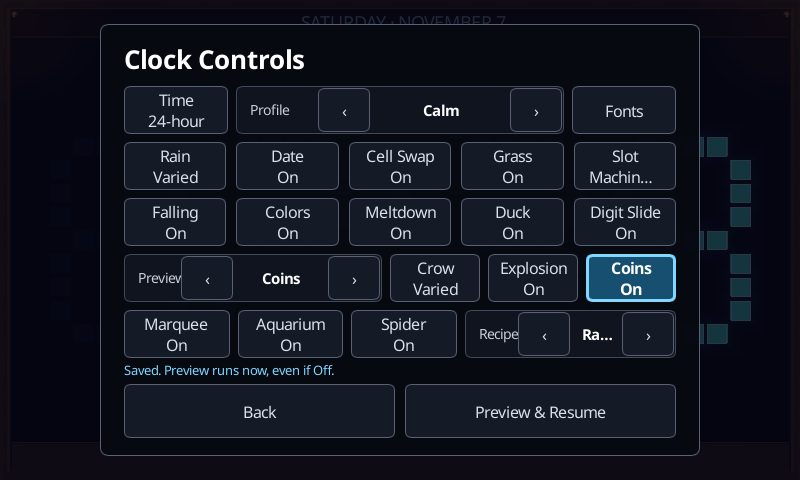
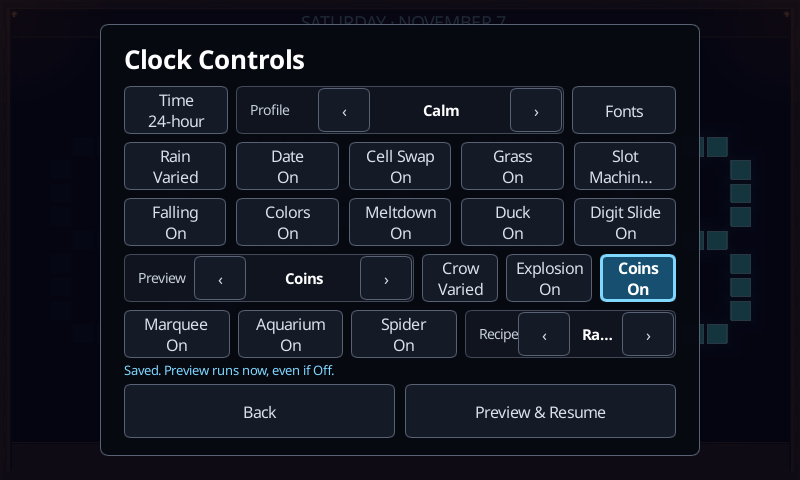
Clock: give the pause page's selectors their room and the arrows their walk
Review of #595 found two defects in the Coins switch's row. On a portrait
panel the third switch left the preview selector 106px, less than its two
arrows need, so the event to preview had no name; and Left and Right on
Coins flipped the switch instead of moving along the row as the navigation
table says, which Explosion had done before it.

The pause page's Clock grid now stacks under 500px: the preview and recipe
selectors take rows of their own above their switches, which share the next
row in thirds, and the panel grows by two rows. In landscape the three
switches are 76, 86 and 76px wide, so "Preview" and the longest event name
keep their room. Arrows walk from every switch, Explosion and Coins included.

The layout audit evaluates conditional geometry and the grid's own
properties, measures the two real grid widths as well, and holds every
selector on the pause page to 32px of room for its value, which is what the
portrait capture lacked. Its tests cover both arrangements and a squeezed
recipe. The keyboard test walks the row with the arrows, and the docs carry
the portrait capture.

diff --git a/tools/audit-clock-control-layout.py b/tools/audit-clock-control-layout.py
@@ -1,12 +1,22 @@
 #!/usr/bin/env python3
-"""Report Clock control panels whose buttons overlap, which hides whichever one the UI paints first."""
+"""Report Clock control panels whose buttons overlap, which hides whichever one the UI paints first, and selectors squeezed below the room their value needs."""
 import argparse
 import re
 from pathlib import Path
 
 PANELS={'ingame-clock':'ingame-clock-visible','launcher-clock':'launcher-scenario == "clock"'}
-WIDTHS=(480,800,1280)
-CHILD=re.compile(r'^\s*(?:if [^:]+: )?(MenuButton|ChoiceRow)\s*\{\s*$')
+# 400 and 552 are the grids' real widths on the 480x800 and landscape panels.
+WIDTHS=(400,480,552,800,1280)
+# A ChoiceRow gives 52px and a margin to each arrow; its value has the rest
+# of what the label fraction leaves, and shows nothing legible under this.
+VALUE_ROOM=32
+# The launcher's selectors lose their values on a portrait panel too; that
+# predates the check and is a separate change, so only the pause page is held
+# to it.
+VALUE_PANELS=('ingame-clock',)
+CHILD=re.compile(r'^\s*(?:if [^:]+: )?(?:[\w-]+\s*:=\s*)?(MenuButton|ChoiceRow)\s*\{\s*$')
+PROPERTY=re.compile(r'^\s*(?:private |in |out |in-out )?property\s*<[^>]+>\s*([\w-]+)\s*:\s*([^;]+);')
+TERNARY=re.compile(r'^(.*?)\?(.*?):(.*)$')
 
 
 def block(lines,start):
@@ -29,26 +39,44 @@ def panels(lines):
                 yield name,start,end
 
 
-def measure(expression,width):
-    """Evaluate the px arithmetic these panels use, or None when it is conditional."""
+def declarations(lines,start,end):
+    """Map the panel's own `id.property` names to their expressions, for geometry that refers to them."""
+    named=re.search(r'([\w-]+)\s*:=\s*\w+\s*\{',lines[start])
+    if not named:
+        return {}
+    found={}
+    for line in lines[start+1:end]:
+        match=PROPERTY.match(line)
+        if match:
+            found['%s.%s'%(named.group(1),match.group(1))]=match.group(2).strip()
+    return found
+
+
+def measure(expression,width,names=None):
+    """Evaluate the px arithmetic these panels use, one `a ? b : c` deep and through the panel's own properties, or None."""
+    for name,value in (names or {}).items():
+        expression=expression.replace(name,'(%s)'%value)
+    expression=TERNARY.sub(r'((\2) if (\1) else (\3))',expression)
     try:
-        return float(eval(expression.replace('parent.width','W').replace('px',''),{'__builtins__':{}},{'W':width}))
+        return float(eval(expression.replace('parent.width','W').replace('self.width','W').replace('px',''),{'__builtins__':{}},{'W':width}))
     except Exception:
         return None
 
 
 def boxes(lines,start,end,width):
-    """Return every measurable control in the panel as (label, x, y, width, height, line)."""
-    result=[];index=start
+    """Return every measurable control in the panel as (label, x, y, width, height, line, kind, label fraction)."""
+    result=[];index=start;names=declarations(lines,start,end)
     while index<end:
-        if not CHILD.match(lines[index]):
+        kind=CHILD.match(lines[index])
+        if not kind:
             index+=1;continue
         open_at,close_at=block(lines,index);body='\n'.join(lines[open_at:close_at])
         read=lambda name:(lambda m:m.group(1).strip() if m else '')(re.search(r'\n\s*%s:\s*([^;]+);'%name,body))
-        geometry=[measure(read(name),width) for name in ('x','y','width','height')]
+        geometry=[measure(read(name),width,names) for name in ('x','y','width','height')]
         label=(re.search(r'\n\s*text:\s*"([^"\\]*)',body) or re.search(r'\n\s*label:\s*"?([^";]*)',body))
+        fraction=measure(read('label-fraction') or '0.40',width,names)
         if None not in geometry:
-            result.append(((label.group(1).split('\\n')[0].strip() if label else '?'),*geometry,open_at+1))
+            result.append(((label.group(1).split('\\n')[0].strip() if label else '?'),*geometry,open_at+1,kind.group(1),fraction))
         index=close_at
     return result
 
@@ -64,11 +92,25 @@ def overlaps(items):
     return found
 
 
+def squeezed(items,room=VALUE_ROOM):
+    """Return every selector whose value is left under `room` px, with that figure."""
+    return [(item,item[3]*(1-item[7])-120) for item in items if item[6]=='ChoiceRow' and item[7] is not None and item[3]*(1-item[7])-120<room]
+
+
 def audit(path,widths=WIDTHS):
     """Return {panel: [(width, first, second)]} for every overlap found."""
     lines=Path(path).read_text().split('\n');result={}
     for name,start,end in panels(lines):
         result[name]=[(width,a,b) for width in widths for a,b in overlaps(boxes(lines,start,end,width))]
+    return result
+
+
+def audit_values(path,widths=WIDTHS,panel_names=VALUE_PANELS):
+    """Return {panel: [(width, selector, room)]} for every selector squeezed below its value's room."""
+    lines=Path(path).read_text().split('\n');result={}
+    for name,start,end in panels(lines):
+        if name in panel_names:
+            result[name]=[(width,item,room) for width in widths for item,room in squeezed(boxes(lines,start,end,width))]
     return result
 
 
@@ -82,7 +124,13 @@ def main():
         print('%s: %d overlap(s)'%(name,len(found)))
         for width,a,b in found:
             print('  at parent.width=%d: %s (line %d) over %s (line %d)'%(width,a[0],a[5],b[0],b[5]))
+    values=audit_values(args.slint)
+    for name,found in sorted(values.items()):
+        print('%s: %d squeezed selector(s)'%(name,len(found)))
+        for width,item,room in found:
+            print('  at parent.width=%d: %s (line %d) leaves its value %dpx'%(width,item[0],item[5],room))
     assert not any(report.values()), 'clock controls overlap'
+    assert not any(values.values()), 'a clock selector has no room for its value'
     print('every clock control has its own place at widths %s'%(', '.join(str(w) for w in WIDTHS)))
 
 

diff --git a/tools/tests/test_clock_control_layout.py b/tools/tests/test_clock_control_layout.py
@@ -25,9 +25,38 @@ class ClockControlLayoutTests(unittest.TestCase):
     def test_both_panels_measure_their_whole_grid(self):
         lines = SLINT.read_text().split('\n')
         for name, start, end in L.panels(lines):
-            measured = L.boxes(lines, start, end, 800)
-            self.assertGreaterEqual(len(measured), 15, '%s measured only %d controls' % (name, len(measured)))
-            self.assertIn('Slot Machine', [item[0] for item in measured])
+            for width in L.WIDTHS:
+                measured = L.boxes(lines, start, end, width)
+                self.assertGreaterEqual(len(measured), 15, '%s measured only %d controls at %d' % (name, len(measured), width))
+                self.assertIn('Slot Machine', [item[0] for item in measured])
+
+    def test_the_pause_grid_stacks_its_selectors_on_a_portrait_panel(self):
+        # Conditional geometry is measured on both sides of the threshold.
+        lines = SLINT.read_text().split('\n')
+        [(start, end)] = [(start, end) for name, start, end in L.panels(lines) if name == 'ingame-clock']
+        for width, stacked in ((400, True), (552, False)):
+            rows = {item[0]: item for item in L.boxes(lines, start, end, width)}
+            preview, recipe, coins = rows['Preview'], rows['Recipe'], rows['Coins']
+            self.assertEqual(preview[3], width if stacked else width - 262)
+            self.assertEqual((coins[2], recipe[2]), (224, 336) if stacked else (168, 224))
+            self.assertEqual(recipe[3], width if stacked else 2 * (width - 24) / 5)
+
+    def test_every_selector_keeps_room_for_its_value(self):
+        report = L.audit_values(SLINT)
+        self.assertEqual(sorted(report), ['ingame-clock'])
+        for panel, found in report.items():
+            self.assertFalse(found, '%s squeezed: %s' % (panel, [(w, item[0], item[5], room) for w, item, room in found]))
+
+    def test_a_squeezed_selector_is_reported(self):
+        # Give the recipe two fifths of the row on a portrait panel again.
+        source = SLINT.read_text()
+        squeezed = source.replace('width: clock-grid.stacked ? parent.width : 2 * (parent.width - 24px) / 5;', 'width: 2 * (parent.width - 24px) / 5;', 1)
+        self.assertNotEqual(source, squeezed)
+        with tempfile.TemporaryDirectory() as directory:
+            path = Path(directory) / 'main.slint'
+            path.write_text(squeezed)
+            found = L.audit_values(path)['ingame-clock']
+        self.assertEqual(sorted({(width, item[0]) for width, item, _ in found}), [(400, 'Recipe'), (480, 'Recipe')])
 
     def test_an_overlapping_button_is_reported(self):
         # A guard that cannot fail is no guard: move one button onto another.

diff --git a/crates/engine-client/src/keyboard_tests.rs b/crates/engine-client/src/keyboard_tests.rs
@@ -1086,6 +1086,20 @@ fn backend_neutral_keyboard_reaches_clock_settings_and_does_not_repeat_shortcuts
     assert_eq!(adjusted.get(), Some((15, 1)));
     click(&window, 439.0, 278.0);
     assert_eq!(adjusted.get(), Some((14, 1)));
+    // Arrows walk the row's switches rather than flipping them: Explosion to
+    // Coins and back, then off the end to the selector, which they adjust.
+    adjusted.set(None);
+    window.set_ingame_clock_focus_index(15);
+    key(&window, Key::RightArrow);
+    assert_eq!(window.get_ingame_clock_focus_index(), 22);
+    key(&window, Key::LeftArrow);
+    assert_eq!(window.get_ingame_clock_focus_index(), 15);
+    key(&window, Key::RightArrow);
+    key(&window, Key::RightArrow);
+    assert_eq!(window.get_ingame_clock_focus_index(), 4);
+    assert_eq!(adjusted.get(), None);
+    key(&window, Key::RightArrow);
+    assert_eq!(adjusted.get(), Some((4, 1)));
     click(&window, 287.0, 166.0);
     assert_eq!(adjusted.get(), Some((13, 1)));
     click(&window, 175.0, 166.0);

diff --git a/crates/engine-client/src/clock_controls.rs b/crates/engine-client/src/clock_controls.rs
@@ -258,9 +258,12 @@ pub(crate) fn handle_action(window: &MainWindow, action: UiAction) {
             window.set_ingame_clock_focus_index(ui_navigation::moved_clock_selection(index, action))
         }
         UiAction::Left | UiAction::Right => {
+            // Switches and the two actions hand the arrows to navigation.
+            // Selectors adjust, and so do Time and Date, whose rows the
+            // navigation table keeps them on.
             if matches!(
                 index,
-                2 | 3 | 5 | 6 | 7 | 8 | 9 | 11 | 17 | 18 | 19 | 20 | 21
+                2 | 3 | 5 | 6 | 7 | 8 | 9 | 11 | 15 | 17 | 18 | 19 | 20 | 21 | 22
             ) {
                 window.set_ingame_clock_focus_index(ui_navigation::moved_clock_selection(
                     index, action,

diff --git a/docs/clock.md b/docs/clock.md
@@ -565,11 +565,17 @@ below it:
 ![The pile under the face in the 480×800 view](screenshots/clock/coins-480x800-piled.png)
 
 The switch ends the pause page's preview row after Crow and Explosion, and
-the launcher's Events row, which became five columns like the two below it:
+the launcher's Events row, which became five columns like the two below it.
+Left and Right walk the row's switches, as they do on every switch, and
+adjust the selector. On a portrait panel the preview and recipe selectors
+take rows of their own above their switches, so their names keep their room,
+and the panel grows by two rows; `tools/audit-clock-control-layout.py`
+measures both arrangements and holds every selector on the page to the room
+its value needs:
 
-| Clock Controls | Scenario Settings |
-| --- | --- |
-| ![Coins On at the end of the pause page's preview row](screenshots/clock/coins-800x480-live-controls.png) | ![Coins On at the end of the launcher's Events row](screenshots/clock/coins-800x480-launcher-controls.png) |
+| Clock Controls | Scenario Settings | Portrait |
+| --- | --- | --- |
+| ![Coins On at the end of the pause page's preview row](screenshots/clock/coins-800x480-live-controls.png) | ![Coins On at the end of the launcher's Events row](screenshots/clock/coins-800x480-launcher-controls.png) | ![The preview and recipe selectors on rows of their own in the 480×800 view](screenshots/clock/coins-480x800-live-controls.png) |
 
 `coins_tests` cover the cap and the batch's own identities, seeded replay at
 six aspect ratios in both formats, the settle measurement below, the return
